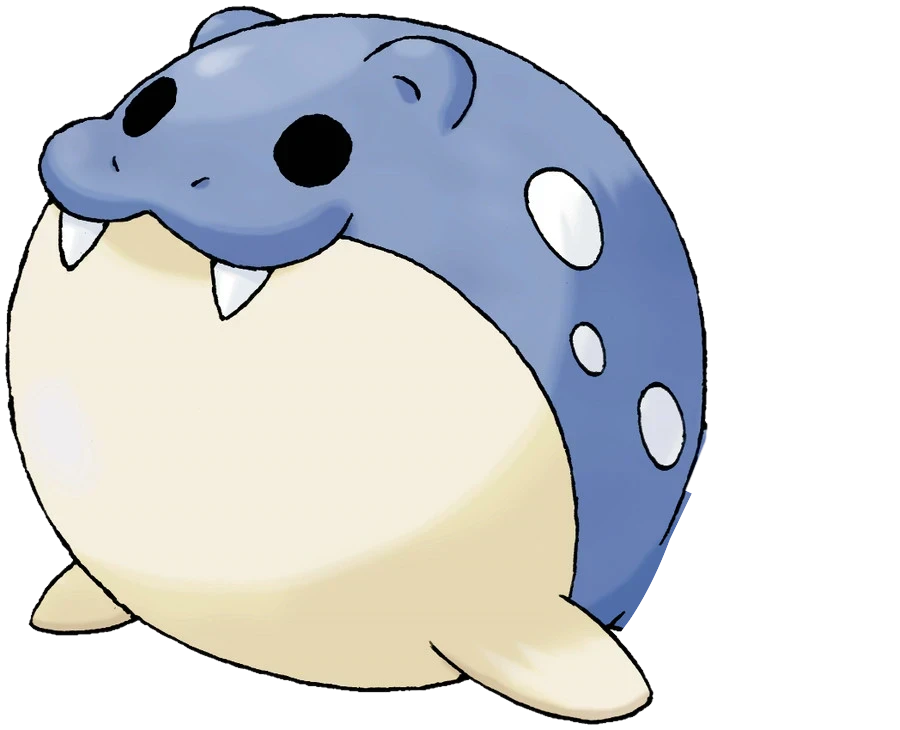
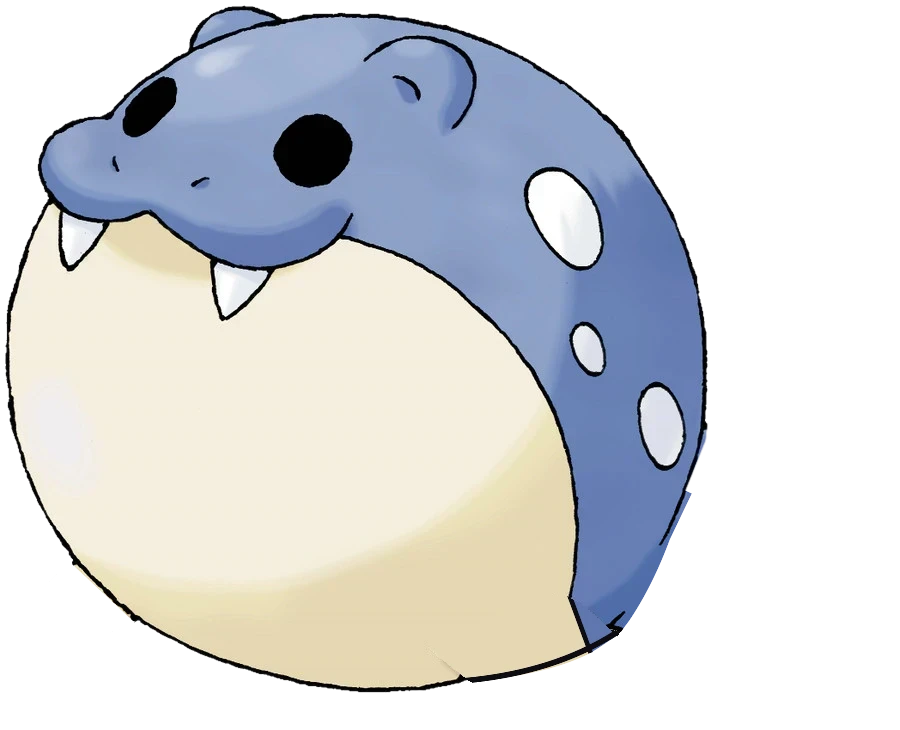
feat(site): clap the spheal's flippers now and then

Changed region(s): [[0.4978, 0.8137, 0.7467, 0.9945], [0.0311, 0.7534, 0.1556, 0.874], [0.4667, 0.874, 0.4978, 0.9041]]

diff --git a/onload.js b/onload.js
@@ -29,6 +29,12 @@ const BELLY_RADIUS = .38;
 // How much more the tail bends up than it leans back, as leaning lowers the tail too, so it stays on the ground.
 const SWING_PUSH = 1.5;
 const SMILE_DURATION = 2500;
+// How often it claps its flippers against its belly in a row, how long each clap takes, how far they turn up in degrees
+// and how short they look then, as they swing towards the viewer onto the belly.
+const CLAP_COUNT = 3;
+const CLAP_DURATION = 350;
+const CLAP_ANGLE = 20;
+const CLAP_SCALE = .55;
 // Blur of content below the window in rem, and the fastest it may drop in rem per second.
 const REVEAL_BLUR = 1.5;
 const REVEAL_SPEED = 4;
@@ -133,13 +139,15 @@ function lightScene() {
   requestAnimationFrame(orbit);
 }
 
-// Blinks once or twice after random pauses, swings or smiles after others, rolls or jumps when hovered,
+// Blinks once or twice after random pauses, swings, smiles or claps after others, rolls or jumps when hovered,
 // and smiles and blinks after a swing or a roll.
 function animateSpheal() {
   let spheal = document.getElementById("spheal");
   let tail = document.getElementById("sphealTail");
   let lids = document.querySelectorAll(".lid");
   let mouth = document.getElementById("sphealMouth");
+  // Each flipper with the sign that turns it down, towards the ground.
+  let flippers = [[document.getElementById("sphealFlipper"), 1], [document.getElementById("sphealFlipperBack"), -1]];
 
   let blink = () => {
     let iterations = 1 + Math.floor(Math.random() * 2);
@@ -174,8 +182,13 @@ function animateSpheal() {
     });
   };
 
+  // Claps its flippers up against its belly a few times.
+  let clap = () => Promise.all(flippers.map(([flipper, down]) => flipper.animate(
+    { rotate: ["0deg", -down * CLAP_ANGLE + "deg", "0deg"], scale: ["1", CLAP_SCALE + " 1", "1"] },
+    { duration: CLAP_DURATION, iterations: CLAP_COUNT, easing: "ease-in-out" }).finished));
+
   // After every random pause does one of these, then waits for the next.
-  let idles = [swing, smile];
+  let idles = [swing, smile, clap];
   let idle = () => setTimeout(async () => {
     await idles[Math.floor(Math.random() * idles.length)]();
     idle();

diff --git a/style.css b/style.css
@@ -212,6 +212,22 @@ li > a {
   transform-origin: 68% 87%;
 }
 
+/* the flippers, each turning about its root, the far one behind the body with its root drawn on under the belly,
+   and behind the near one the body is drawn on as well, so neither leaves a gap when they move */
+.flipper {
+  --down: 1;
+  position: absolute;
+  top: 0;
+  left: 0;
+  transform-origin: 55% 85.6%;
+}
+
+#sphealFlipperBack {
+  --down: -1;
+  z-index: -1;
+  transform-origin: 11.7% 80.8%;
+}
+
 /* the snout and the teeth over the same part of the body, so they can move on their own */
 #sphealSnout {
   position: absolute;

diff --git a/index.html b/index.html
@@ -60,6 +60,8 @@
           <div id="spheal">
             <div id="sphealBody">
               <img alt="Spheal" src="images/spheal.webp"/>
+              <img id="sphealFlipperBack" class="flipper" alt="" src="images/spheal-flipper-back.webp"/>
+              <img id="sphealFlipper" class="flipper" alt="" src="images/spheal-flipper.webp"/>
               <img id="sphealTail" alt="" src="images/spheal-tail.webp"/>
               <img id="sphealMouth" alt="" src="images/spheal-mouth.webp"/>
               <img id="sphealSnout" alt="" src="images/spheal-snout.webp"/>
